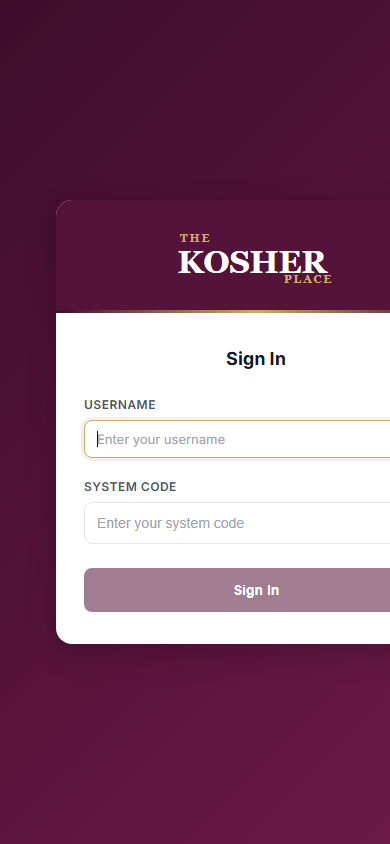
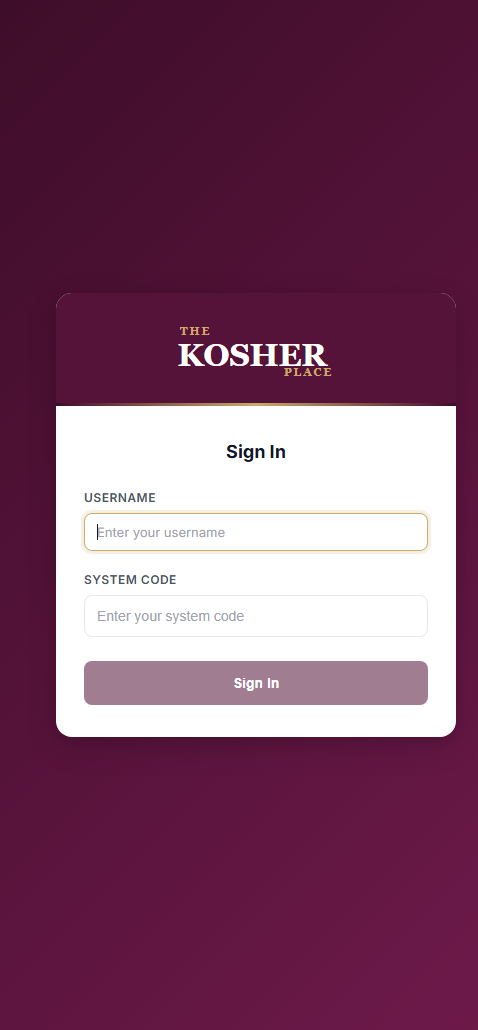
Recapture mobile screenshots at true device width, centered
The previous captures clipped ~60px on the right (the sites render slightly
wider than 390px on mobile). Recaptured at 478px where the layout fits,
cropped the cookie banner out of the J-Cafe capture, and regenerated the
webp variants. Phone-frame img dimensions updated to match.

Changed region(s): [[0.0923, 0.2773, 1.0, 0.7701]]

diff --git a/src/components/ProjectCard.jsx b/src/components/ProjectCard.jsx
@@ -153,8 +153,8 @@ export default function ProjectCard({ project, isAdmin, onOpen, onEdit, onDelete
                     alt=""
                     loading="lazy"
                     decoding="async"
-                    width="390"
-                    height="844"
+                    width="478"
+                    height="1030"
                   />
                 </span>
               </span>
